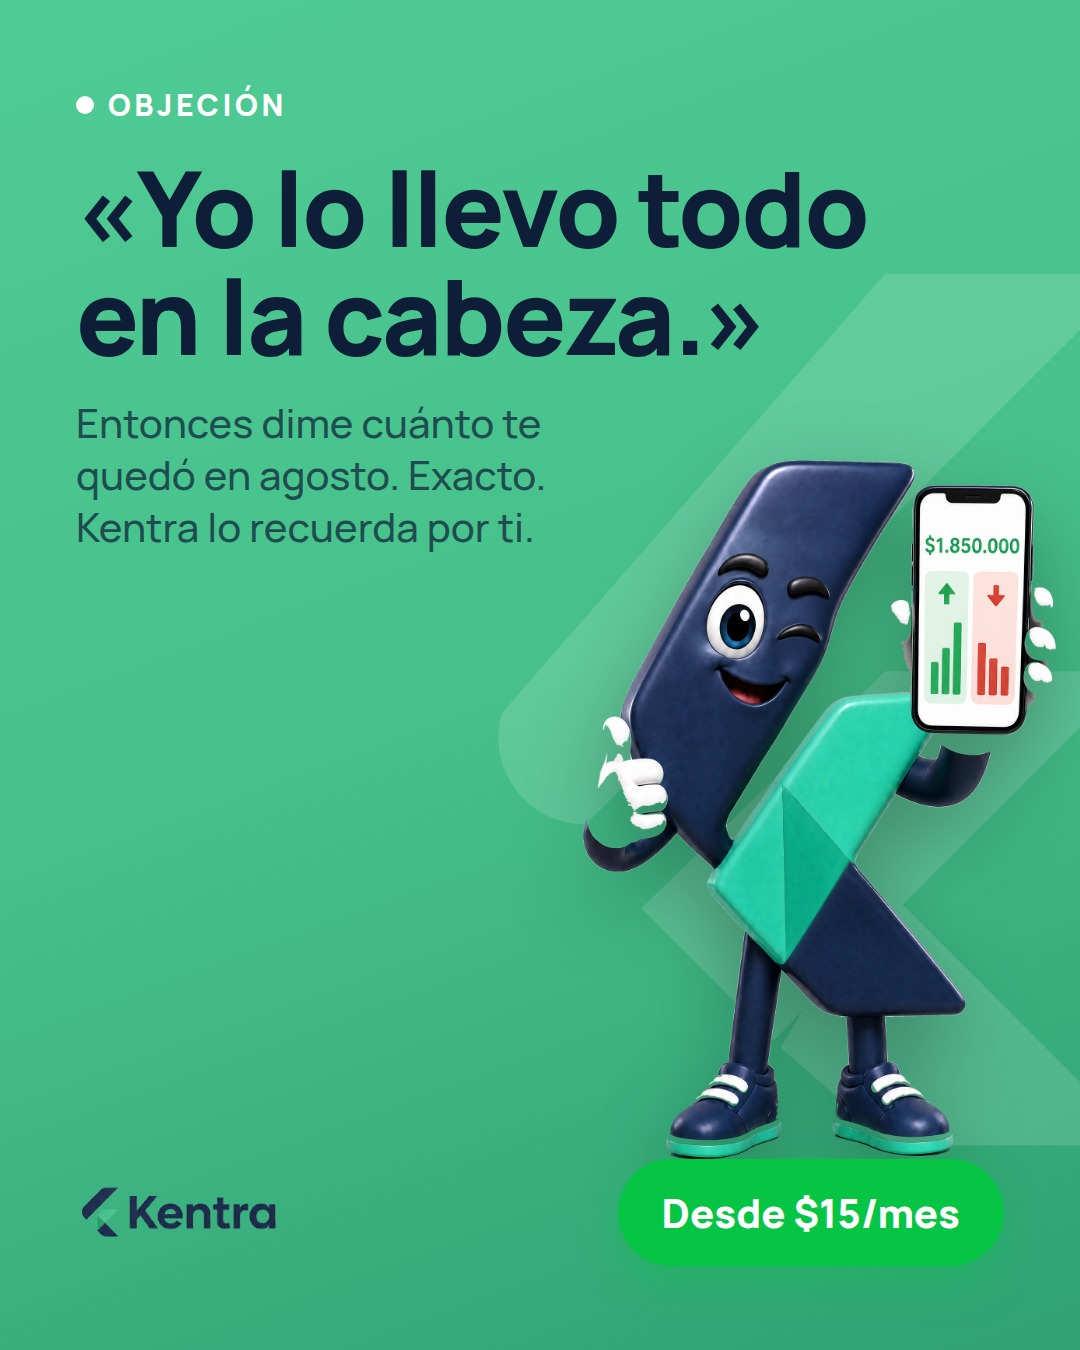
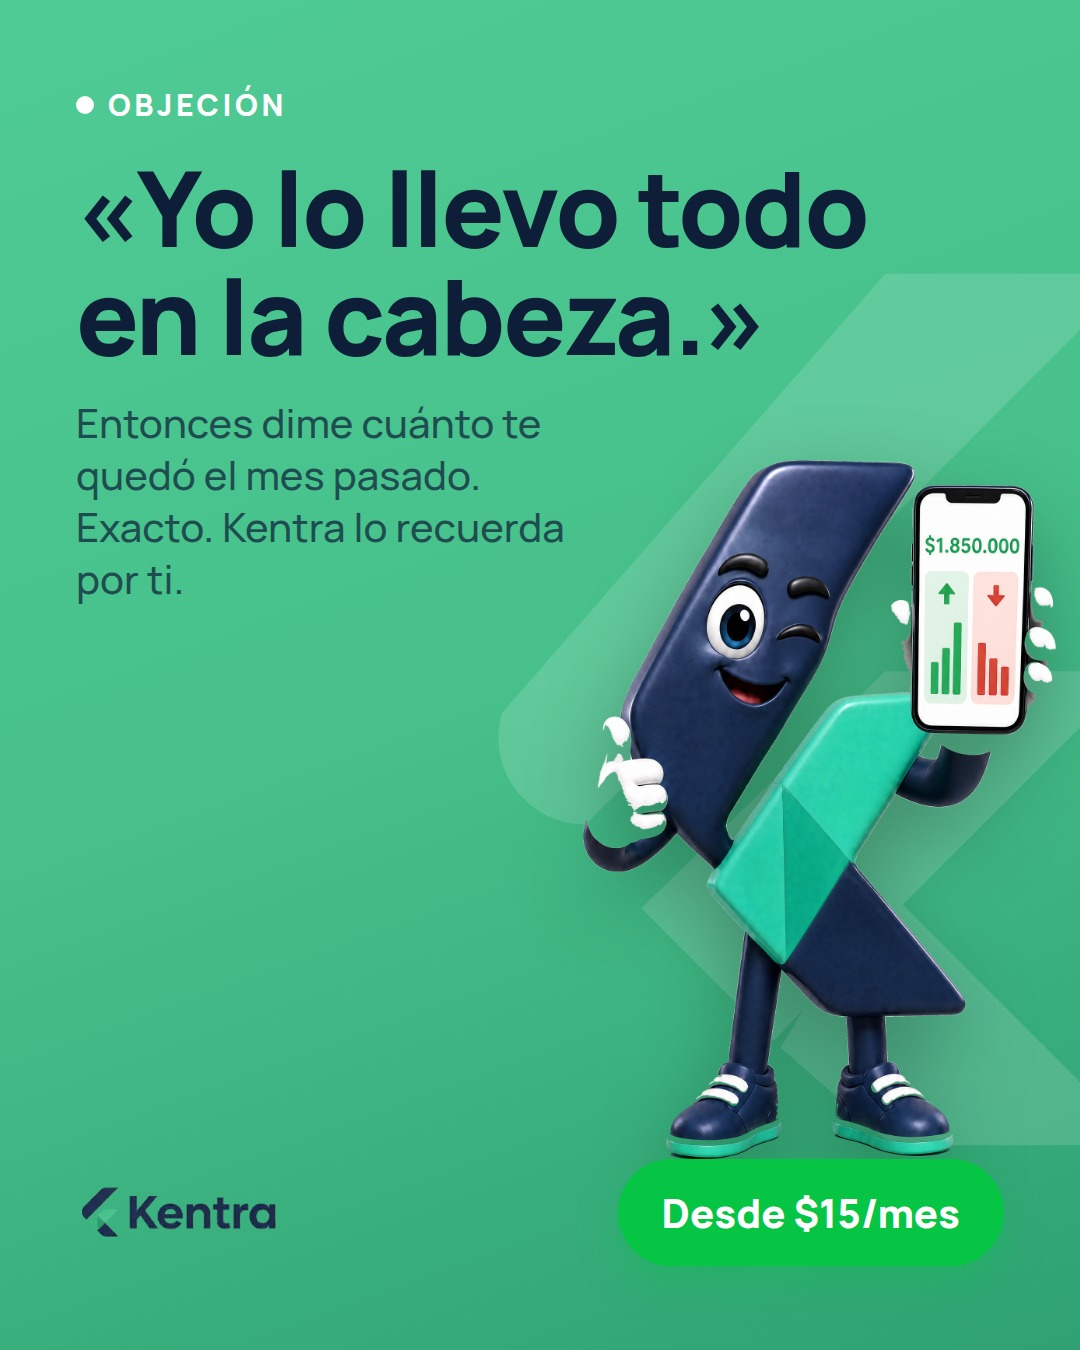
Ajustes: 'el mes pasado' en post del 10 oct; el agente produce la primera semana incompleta
Claude-Session: https://claude.ai/code/session_014DDnzFg4bt4k4JkAjeKg9W

Changed region(s): [[0.0611, 0.3422, 0.5194, 0.4667]]

diff --git a/AGENTE.md b/AGENTE.md
@@ -77,7 +77,7 @@ Estructura: **gancho** (1 línea, repite o complementa el título, no lo copia) 
 1. **Preparar**: clona el repositorio si no está, `npm install`, lee `AGENTE.md`, `producto.md`, `competencia.md`, `memoria.md` y el `calendario.json` (qué se publicó, qué falló, qué hooks ya se usaron).
 2. **Rendimiento propio**: con `ads_get_ig_media` (cuenta de anuncios 830092816592067, IG 17841480064403784) mira likes y comentarios de las últimas publicaciones; cruza con `calendario.json` por `media_id` para saber qué pilar y layout fue cada una. Anota en `memoria.md` los 3 mejores y los 3 peores de la semana y una hipótesis de por qué.
 3. **Competencia**: `ads_library_search` con los `page_ids` de `competencia.md` (`ad_active_status: ACTIVE`) y 2–3 búsquedas por término en CO/MX/CL. Busca ángulos nuevos, ofertas, formatos. Escribe `investigacion/AAAA-MM-DD.md` (10 líneas: qué vi, qué adopto, qué evito). Si descubres un competidor nuevo, agrégalo a `competencia.md`.
-4. **Plan de la semana** (lunes a domingo, 21 piezas): tabla con fecha, hora, formato, pilar, layout, gancho. Comprueba la mezcla de pilares (§2), la rotación de temas de fondo y que ningún gancho repita los últimos 21 días.
+4. **Plan de la semana**: se produce la primera semana (lunes a domingo) posterior a hoy que **no esté completa** en `calendario.json`; si la que empieza mañana ya tiene sus 21 piezas, se produce la siguiente (así siempre hay una semana de colchón). 21 piezas: tabla con fecha, hora, formato, pilar, layout, gancho. Comprueba la mezcla de pilares (§2), la rotación de temas de fondo y que ningún gancho repita los últimos 21 días.
 5. **Escribir los JSON** en `piezas/AAAA-MM-DD/`. Reglas de §1 y §4. Cada historia 1 suele ser la versión `historia` del post del día (mismo mensaje, menos texto); la historia 2 es independiente (tip, pregunta, objeción).
 6. **Renderizar**: `node plantillas/render.mjs piezas/<cada carpeta>`. Si sale DESBORDE, acorta el texto y repite.
 7. **Revisar cada imagen** (ábrela y mírala; no confíes solo en el render): texto completo y legible, nada tapado por la mascota, cifras coherentes (ingresos − gastos = ganancia), ortografía y acentos, CTA visible, logo presente, sin palabras prohibidas. Corrige y vuelve a renderizar hasta que las 21 estén bien.
